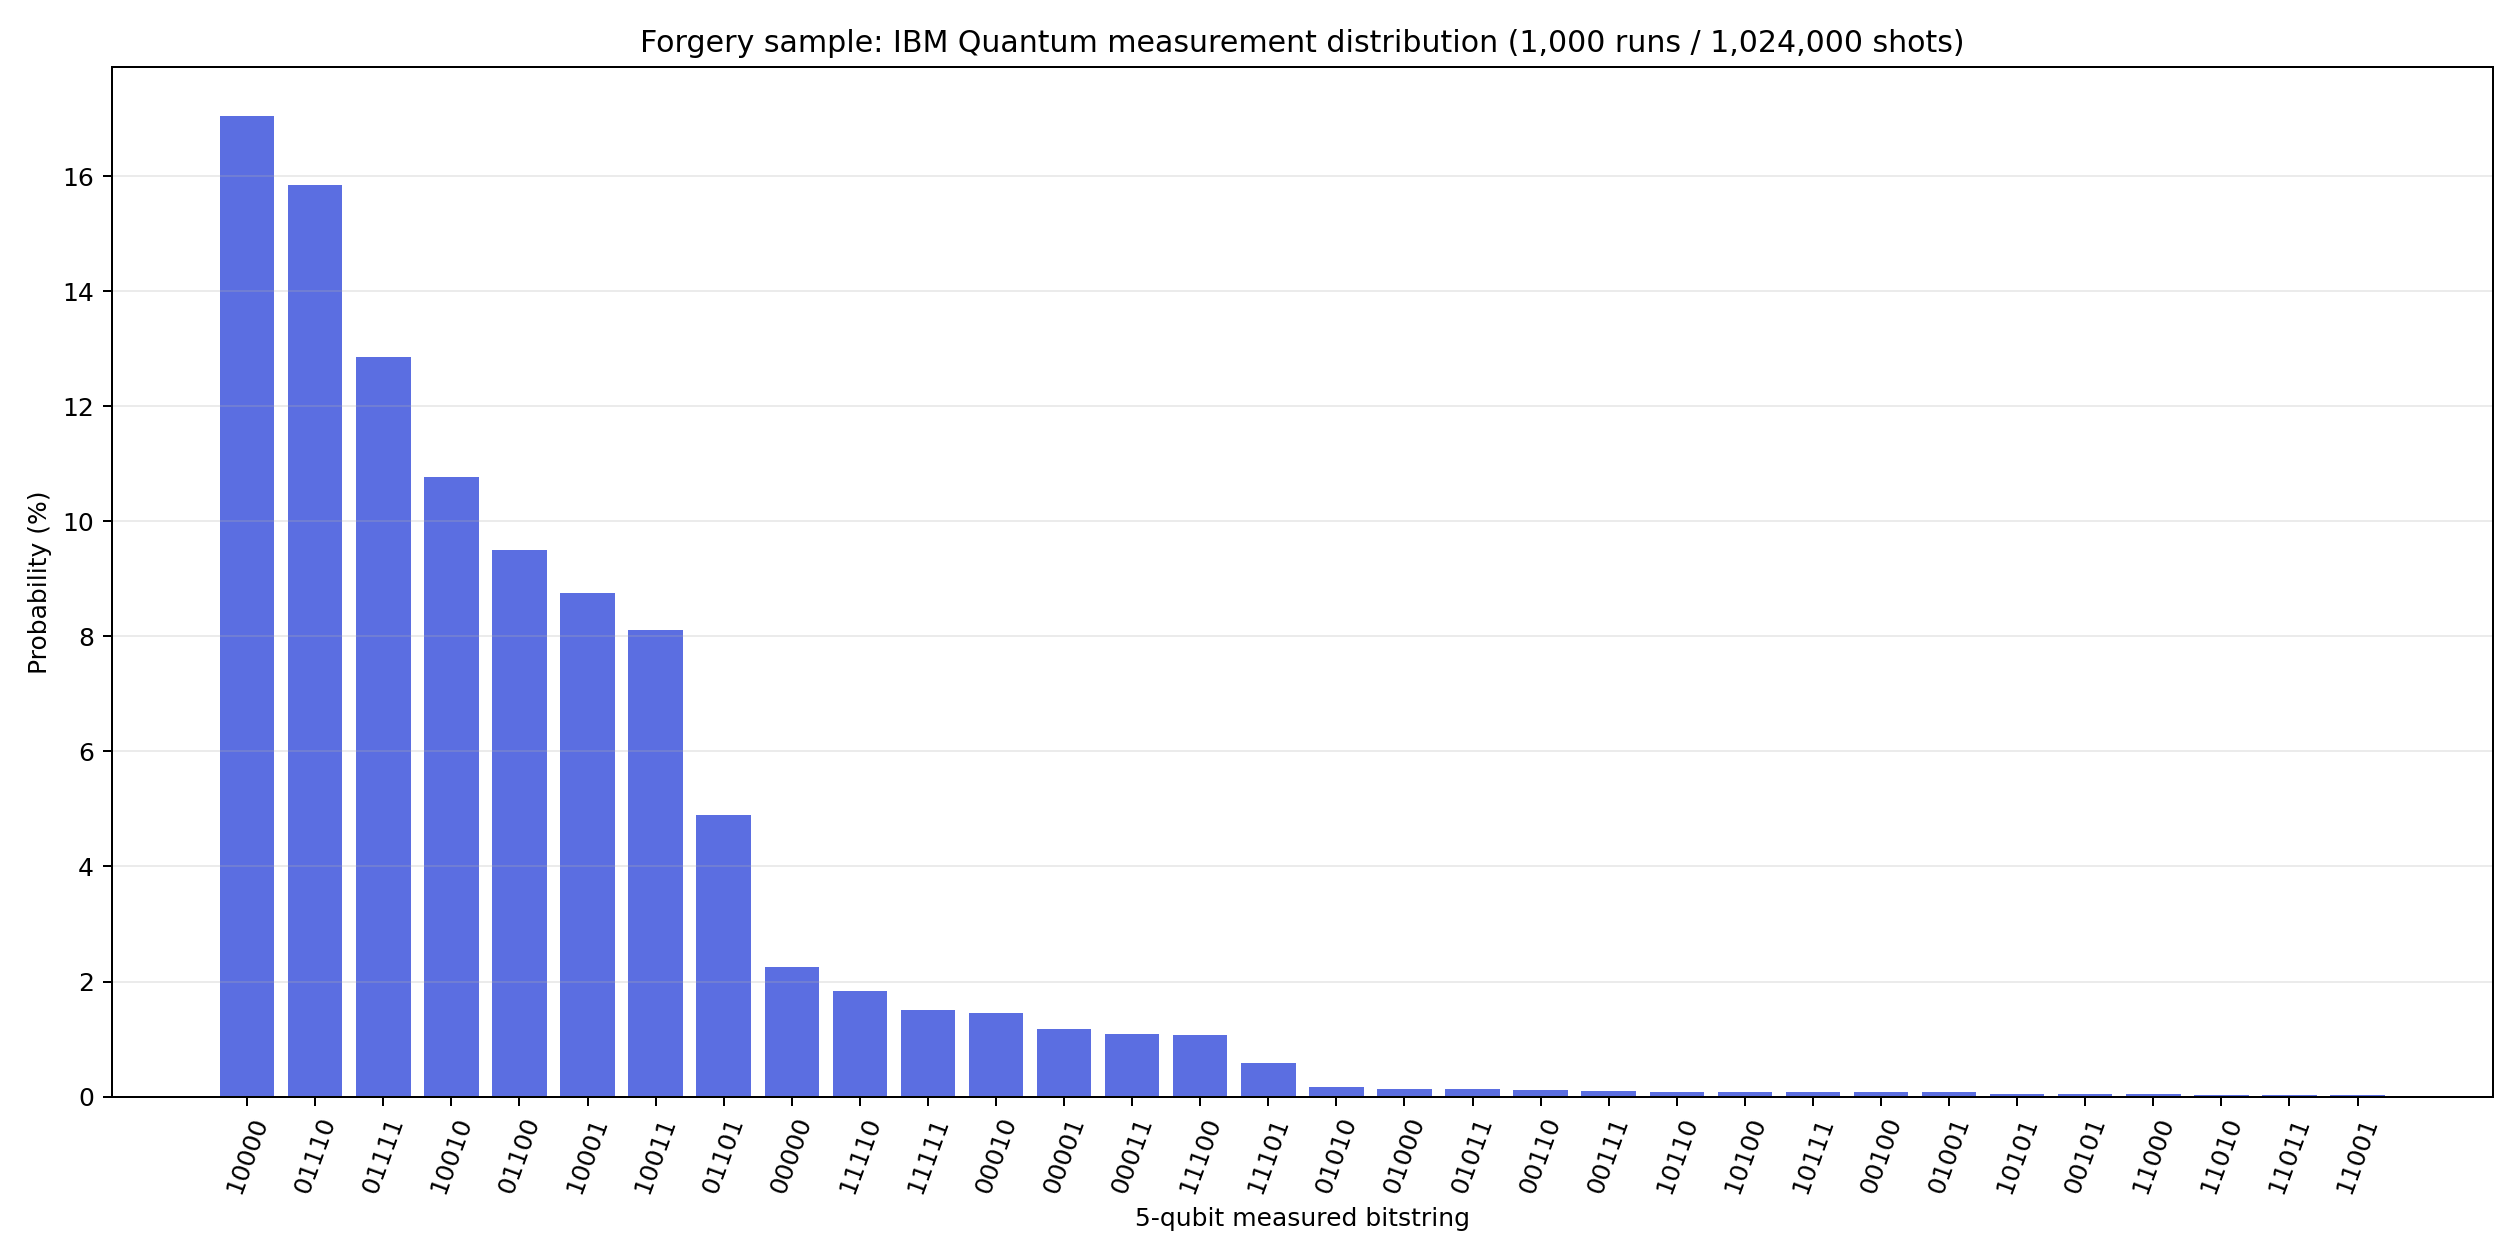
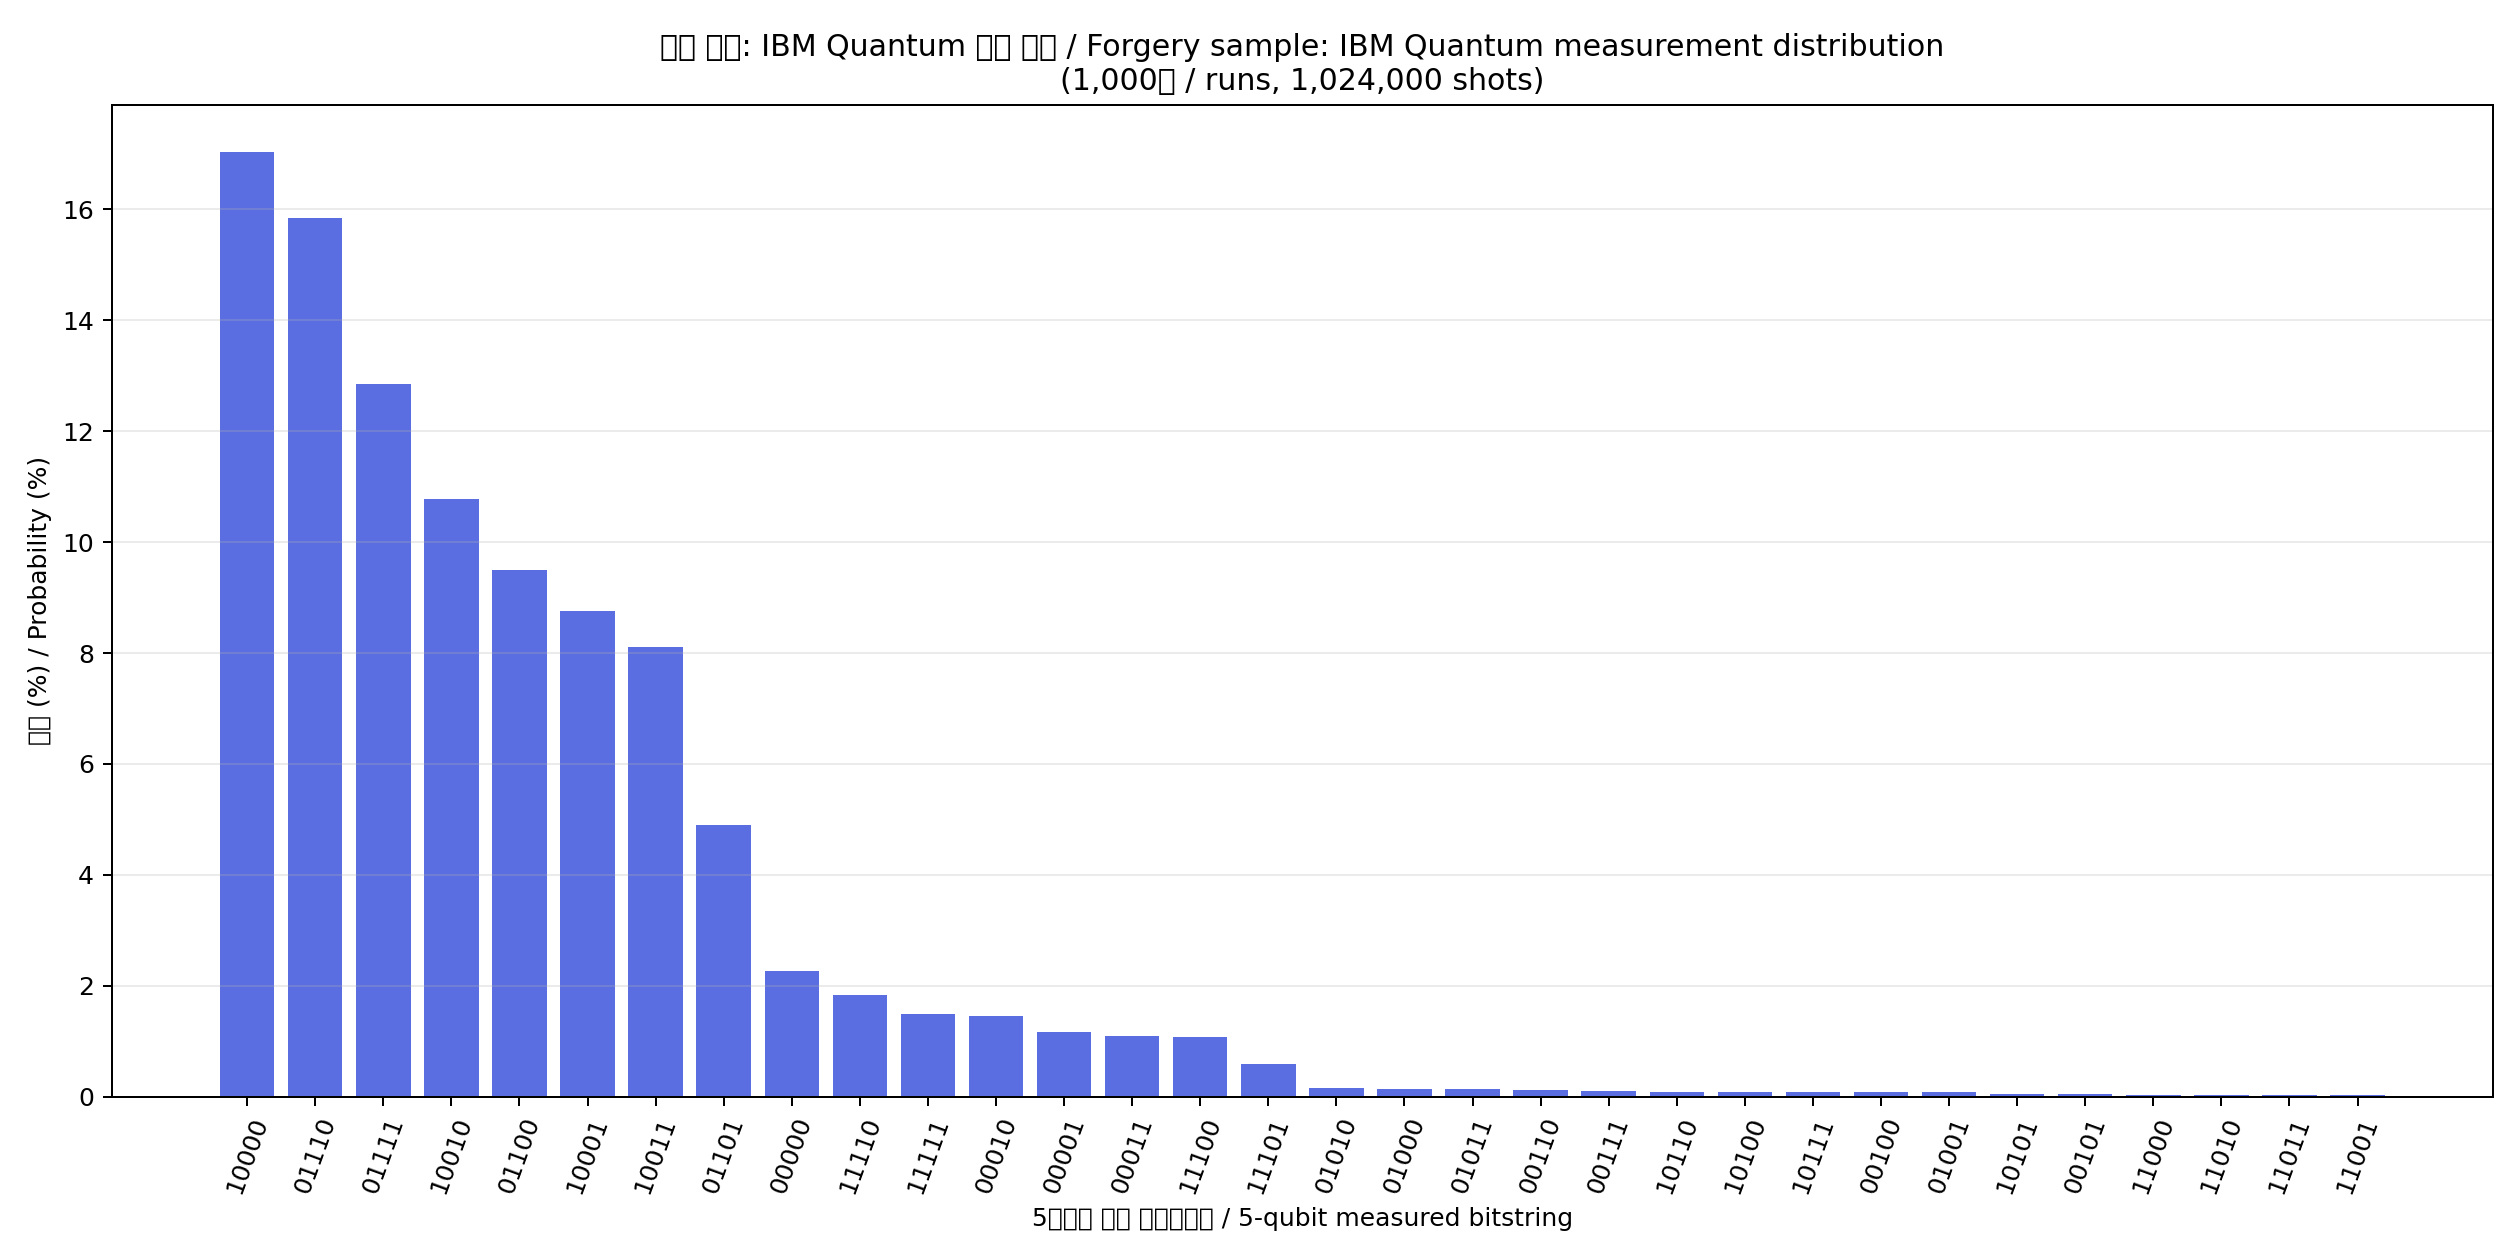
Bilingualize analysis documentation

diff --git a/analyze_forgery.py b/analyze_forgery.py
@@ -1,5 +1,7 @@
 #!/usr/bin/env python3
-"""Analyze one Wikimedia Commons forgery sample on IBM Quantum hardware."""
+"""Analyze one Wikimedia Commons forgery sample on IBM Quantum hardware.
+Wikimedia Commons 위작 표본 1점을 IBM Quantum 실기기에서 분석합니다.
+"""
 
 from __future__ import annotations
 

diff --git a/README.md b/README.md
@@ -1,23 +1,25 @@
-# Quantum Forgery Analysis
+# Quantum Forgery Analysis / 양자 위작 분석
 
-Exploratory analysis of one known artwork forgery using IBM Quantum real hardware.
+Exploratory analysis of one known artwork forgery using IBM Quantum real hardware.  
+IBM Quantum 실기기를 사용해 알려진 미술품 위작 1점을 탐색적으로 분석했습니다.
 
-## Experiment
+## Experiment / 실험
 
-- Artwork: Han van Meegeren, *The Procuress* (Wikimedia Commons)
-- Features: mean luminance, luminance contrast, colorfulness, edge density, texture entropy
-- Circuit: 5 qubits, 1,024 shots per run
-- Hardware runs: 1,000 on `ibm_kingston`
-- Total measurements: 1,024,000
+- Artwork / 작품: Han van Meegeren, *The Procuress* (Wikimedia Commons)
+- Features / 특징: mean luminance / 평균 밝기, luminance contrast / 밝기 대비, colorfulness / 색채도, edge density / 윤곽 밀도, texture entropy / 텍스처 엔트로피
+- Circuit / 회로: 5 qubits / 큐비트 5개, 1,024 shots per run / 회당 1,024 shots
+- Hardware runs / 실기기 실행: 1,000 on `ibm_kingston` / `ibm_kingston`에서 1,000회
+- Total measurements / 총 측정: 1,024,000
 
-The measurement distribution is an experimental quantum fingerprint of the encoded image features. It is **not** an art-authentication or forgery-probability model. Reliable authentication would require a representative dataset of authenticated originals and forgeries, consistent preprocessing, calibration, and statistical validation.
+The measurement distribution is an experimental quantum fingerprint of the encoded image features. It is **not** an art-authentication or forgery-probability model. Reliable authentication would require a representative dataset of authenticated originals and forgeries, consistent preprocessing, calibration, and statistical validation.  
+측정 분포는 인코딩된 이미지 특징의 실험적 양자 지문입니다. **미술품 진위 또는 위작 확률 모델이 아닙니다.** 신뢰할 수 있는 인증에는 진품·위작의 대표 데이터셋, 일관된 전처리, 보정 및 통계 검증이 필요합니다.
 
-## Files
+## Files / 파일
 
-- `results/1.txt` through `results/1000.txt`: individual hardware-run results
-- `visualization/distribution.png`: aggregated measurement distribution
-- `visualization/distribution_summary.txt`: aggregated counts and percentages
-- `results/source_metadata.json`: source and feature metadata
-- `results/analyze_forgery.py`: execution script
+- `results/1.txt` through `results/1000.txt`: individual hardware-run results / 개별 실기기 실행 결과
+- `visualization/distribution.png`: aggregated measurement distribution / 집계 측정 분포도
+- `visualization/distribution_summary.txt`: aggregated counts and percentages / 집계 횟수와 비율
+- `results/source_metadata.json`: source and feature metadata / 출처 및 특징 메타데이터
+- `analyze_forgery.py`: execution script / 실행 스크립트
 
-Source artwork: [Wikimedia Commons](https://commons.wikimedia.org/wiki/File:The_Procuress_forgery_by_Han_van_Meegeren_from_the_Courtauld_Gallery.jpg)
+Source artwork / 작품 출처: [Wikimedia Commons](https://commons.wikimedia.org/wiki/File:The_Procuress_forgery_by_Han_van_Meegeren_from_the_Courtauld_Gallery.jpg)
